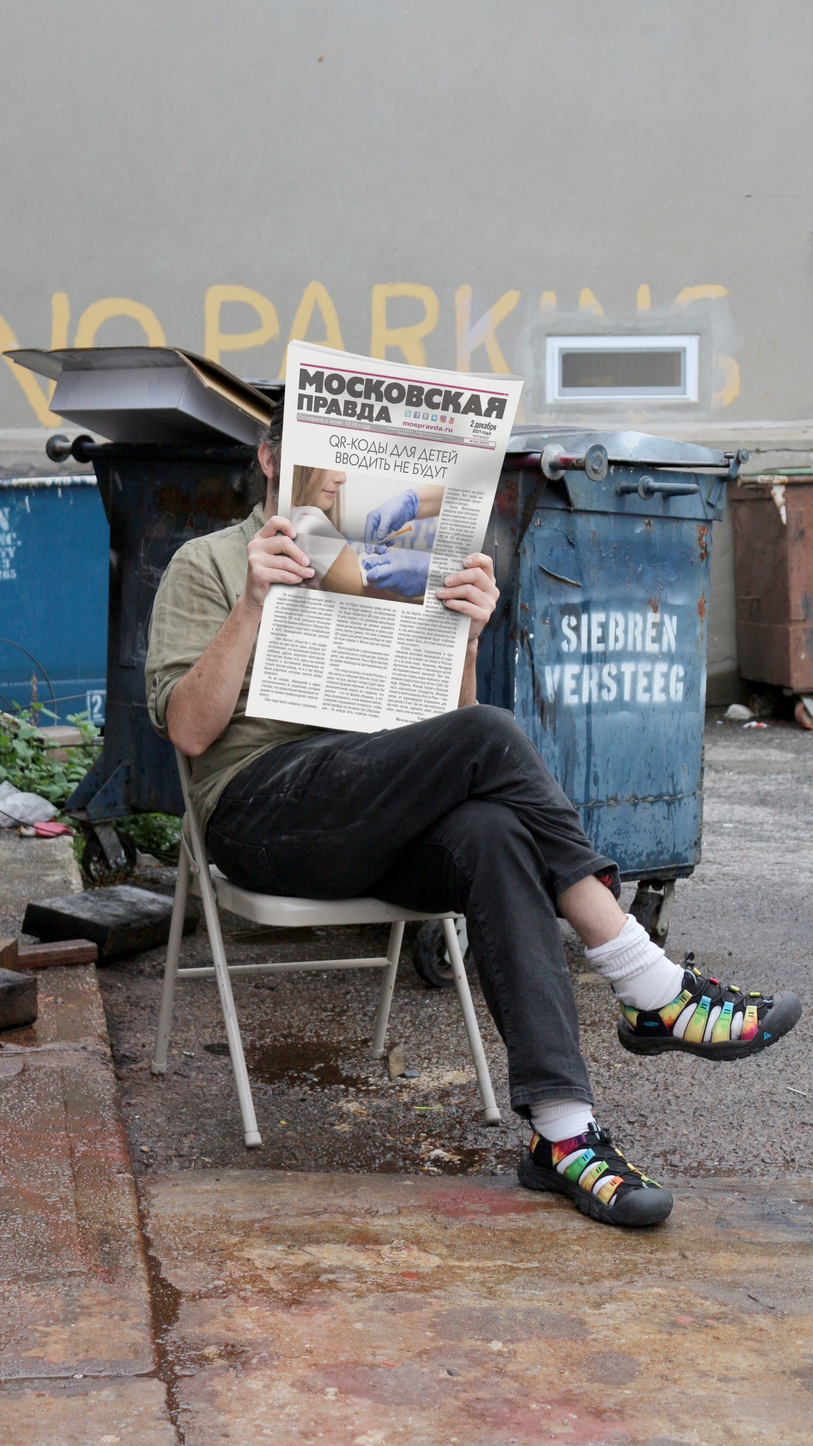
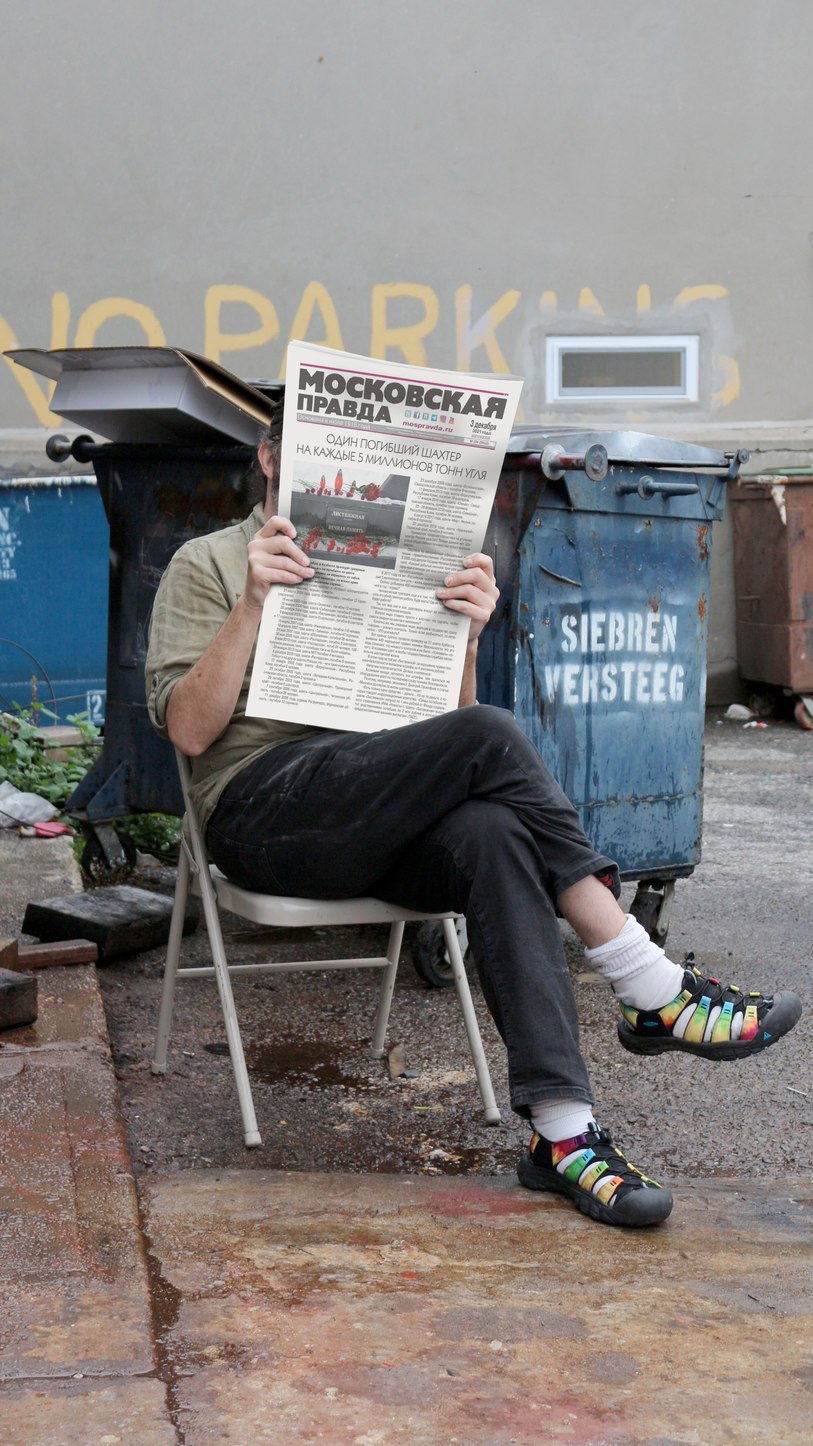
work 32 upd

Changed region(s): [[0.3102, 0.2812, 0.5894, 0.5]]

diff --git a/index.html b/index.html
@@ -155,7 +155,7 @@
 						<div class="author">Кевин Маккой</div>
 					</li>
 					<li>
-						<a href="#modal-work32" class="js-modal-link"><img src="/assets/images/works/work32.jpg?02122021" alt="Утренняя газета" title="Утренняя газета"></a>
+						<a href="#modal-work32" class="js-modal-link"><img src="/assets/images/works/work32.jpg?03122021" alt="Утренняя газета" title="Утренняя газета"></a>
 						<h3><a href="#modal-work32" class="js-modal-link">Ежедневная правда</a></h3>
 						<div class="author">Сибрен Верстиг</div>
 					</li>
@@ -1515,7 +1515,7 @@
 				<div class="title">Ежедневная правда</div>
 				<div class="authors">Сибрен Верстиг</div>
 				<div class="media">
-					<a href="/assets/images/works/work32_full.jpg?02122021" class="js-lightbox picture"><img src="/assets/images/works/work32.jpg?02122021" alt="Ежедневная правда"></a>
+					<a href="/assets/images/works/work32_full.jpg?03122021" class="js-lightbox picture"><img src="/assets/images/works/work32.jpg?03122021" alt="Ежедневная правда"></a>
 				</div>
 				<div class="credits">
 					<p><span class="line"><span class="label">сайт автора:</span><br><a href="http://www.siebrenversteeg.com/" target="_blank">siebrenversteeg.com</a></span><br><br><!-- <span class="line"><span class="label">работа размещена:</span><br><a href="https://www.artblocks.io/token/120000131" target="_blank">artblocks.io/token/120000131</a></span> --></p>

diff --git a/en/index.html b/en/index.html
@@ -155,7 +155,7 @@
 						<div class="author">Kevin McCoy</div>
 					</li>
 					<li>
-						<a href="#modal-work32" class="js-modal-link"><img src="/assets/images/works/work32.jpg?02122021" alt="Today’s Paper" title="Today’s Paper"></a>
+						<a href="#modal-work32" class="js-modal-link"><img src="/assets/images/works/work32.jpg?03122021" alt="Today’s Paper" title="Today’s Paper"></a>
 						<h3><a href="#modal-work32" class="js-modal-link">Daily Truth</a></h3>
 						<div class="author">Siebren Versteeg</div>
 					</li>
@@ -1511,7 +1511,7 @@
 				<div class="title">Daily Truth</div>
 				<div class="authors">Siebren Versteeg</div>
 				<div class="media">
-					<a href="/assets/images/works/work32_full.jpg?02122021" class="js-lightbox picture"><img src="/assets/images/works/work32.jpg?02122021" alt="Daily Truth"></a>
+					<a href="/assets/images/works/work32_full.jpg?03122021" class="js-lightbox picture"><img src="/assets/images/works/work32.jpg?03122021" alt="Daily Truth"></a>
 				</div>
 				<div class="credits">
 					<p><span class="line"><span class="label">author site:</span><br><a href="http://www.siebrenversteeg.com/" target="_blank">siebrenversteeg.com</a></span><br><br><!-- <span class="line"><span class="label">work placed:</span><br><a href="https://www.artblocks.io/token/120000131" target="_blank">artblocks.io/token/120000131</a></span> --></p>
